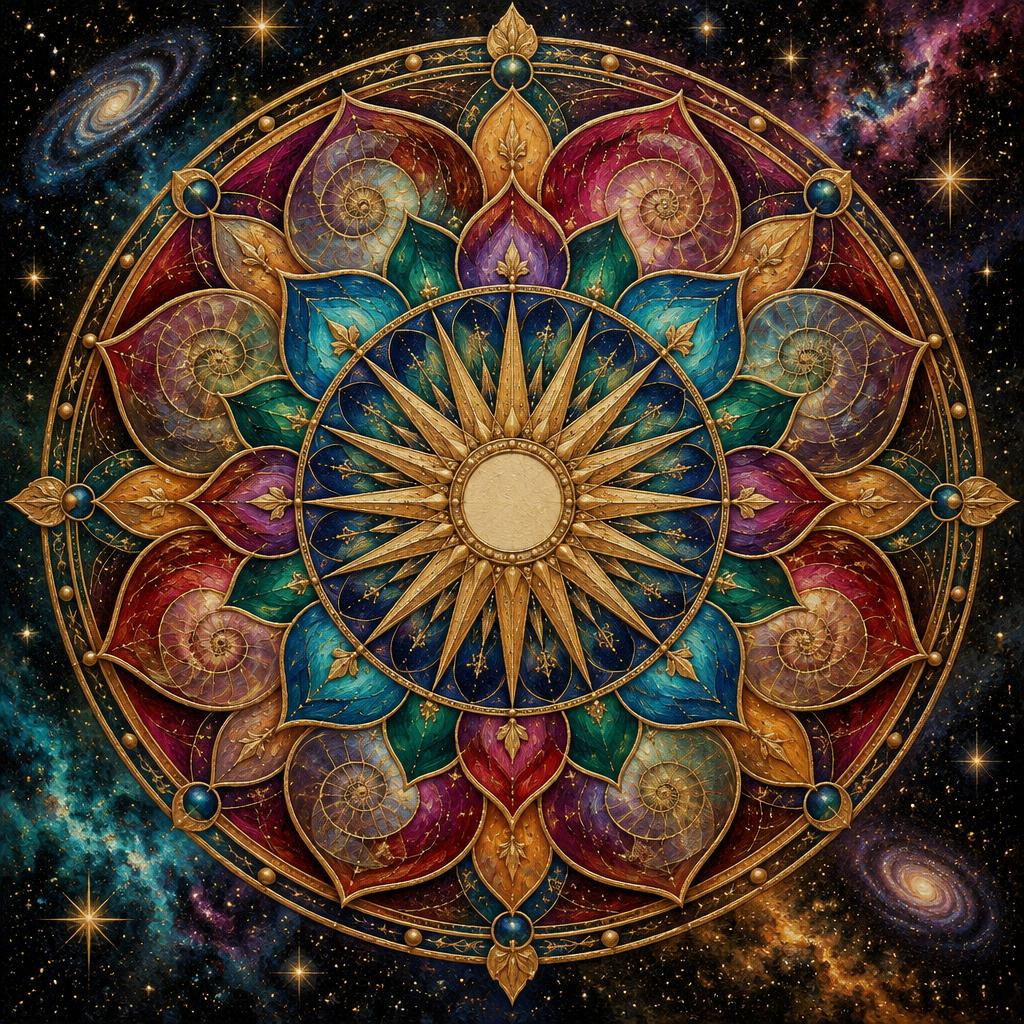
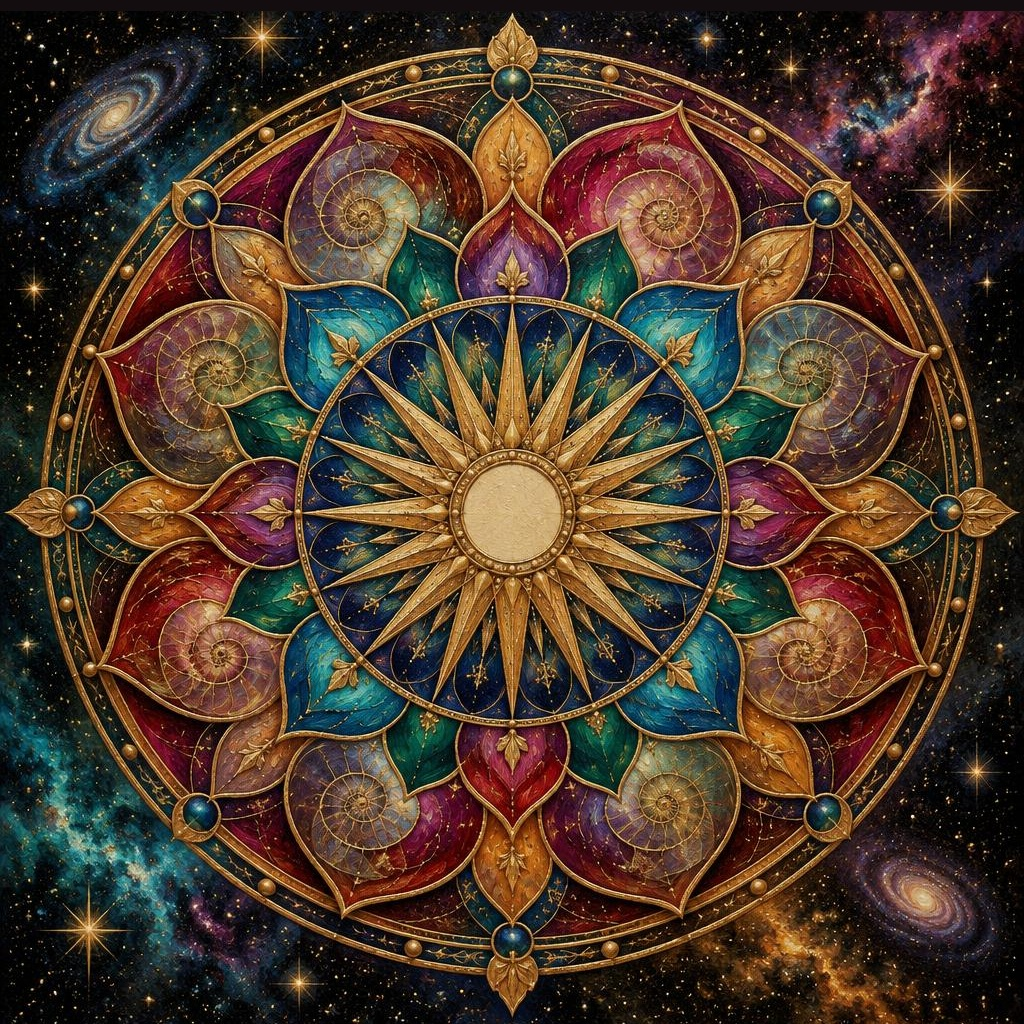
Changes

diff --git a/src/components/MandalaCanvas.tsx b/src/components/MandalaCanvas.tsx
@@ -198,7 +198,7 @@ export function buildMandalaColorPlate(codes: string[], variation: number, _anim
   }).join("");
   const brushSpiral = Array.from({ length: 190 }, (_, i) => { const t = i / 189; const a = t * Math.PI * 7.4 + workSeed % 17 * .07; const r = 31 + t * 417 + Math.sin(i * .71 + workSeed) * .8; return `${i ? "L" : "M"}${(Math.cos(a) * r).toFixed(1)} ${(Math.sin(a) * r).toFixed(1)}`; }).join("");
   const style = `<style>.pigment-layer{mix-blend-mode:overlay}.oil-overlay{mix-blend-mode:soft-light}.oil-soft-light{mix-blend-mode:color-burn}.motif-shadow{mix-blend-mode:multiply}</style>`;
-  return `<svg xmlns="http://www.w3.org/2000/svg" viewBox="-512 -512 1024 1024" width="1024" height="1024">${style}<defs>${auraDef}${textureDefs}<clipPath id="gemOctagon"><path d="M${gemOutline.replaceAll(" ", " L")}Z"/></clipPath><linearGradient id="agedGold" x1="0" y1="0" x2="1" y2="1"><stop offset="0" stop-color="#6F4B18"/><stop offset=".48" stop-color="#B88935"/><stop offset="1" stop-color="#7A5420"/></linearGradient><linearGradient id="midGold" x1="0" y1="1" x2="1" y2="0"><stop offset="0" stop-color="#98702B"/><stop offset=".52" stop-color="#D5AF57"/><stop offset="1" stop-color="#A67B30"/></linearGradient><linearGradient id="leafGold" x1=".15" y1=".85" x2=".85" y2=".15"><stop offset="0" stop-color="#A97927"/><stop offset=".43" stop-color="#F0D98A"/><stop offset=".58" stop-color="#FFF0B0"/><stop offset="1" stop-color="#B48632"/></linearGradient><linearGradient id="shellGold" x1="0" y1="0" x2="1" y2="1"><stop offset="0" stop-color="#FFF3B0"/><stop offset=".48" stop-color="#D7A83D"/><stop offset="1" stop-color="${core}"/></linearGradient><linearGradient id="corePaint" x1="0" y1="0" x2="1" y2="1"><stop offset="0" stop-color="#FFFFFF"/><stop offset=".13" stop-color="${core}"/><stop offset=".43" stop-color="#6E5A28"/><stop offset=".68" stop-color="${core}"/><stop offset=".86" stop-color="#FFF4C7"/><stop offset="1" stop-color="#8B742E"/></linearGradient><linearGradient id="coreRay" x1="0" y1="0" x2="1" y2="0"><stop offset="0" stop-color="${core}" stop-opacity=".95"/><stop offset="1" stop-color="${core}" stop-opacity="0"/></linearGradient><radialGradient id="goldRay" gradientUnits="userSpaceOnUse" cx="0" cy="0" r="450"><stop offset="0" stop-color="#FFF5CE"/><stop offset=".18" stop-color="#F6D875" stop-opacity=".95"/><stop offset=".52" stop-color="#E8BC58" stop-opacity=".62"/><stop offset="1" stop-color="#C28B2E" stop-opacity="0"/></radialGradient><radialGradient id="platinumRay" gradientUnits="userSpaceOnUse" cx="0" cy="0" r="445"><stop offset="0" stop-color="#FFF9D8"/><stop offset=".38" stop-color="#FFF0AA" stop-opacity=".78"/><stop offset="1" stop-color="#EBC56C" stop-opacity="0"/></radialGradient><radialGradient id="gemLight" cx="34%" cy="30%" r="75%"><stop offset="0" stop-color="${gemGlint}"/><stop offset=".45" stop-color="${gemBright}"/><stop offset="1" stop-color="${core}"/></radialGradient><linearGradient id="gemSpectral" x1="0" y1="0" x2="1" y2="1"><stop offset="0" stop-color="${gemBright}"/><stop offset=".55" stop-color="${core}"/><stop offset="1" stop-color="${gemShade}"/></linearGradient><filter id="roughGold" x="-12%" y="-12%" width="124%" height="124%"><feTurbulence type="fractalNoise" baseFrequency=".015 .28" numOctaves="2" seed="${workSeed % 997}" result="noise"/><feDisplacementMap in="SourceGraphic" in2="noise" scale="2.2"/></filter><filter id="fineGold" x="-16%" y="-16%" width="132%" height="132%"><feTurbulence type="fractalNoise" baseFrequency=".045 .19" numOctaves="2" seed="${(workSeed + 211) % 997}" result="fleck"/><feDisplacementMap in="SourceGraphic" in2="fleck" scale="1.15"/></filter><filter id="rayTexture" x="-15%" y="-15%" width="130%" height="130%"><feTurbulence type="fractalNoise" baseFrequency=".018" numOctaves="2" seed="${(workSeed + 317) % 997}" result="rayNoise"/><feDisplacementMap in="SourceGraphic" in2="rayNoise" scale="3.4"/></filter><filter id="coreTexture" x="-20%" y="-20%" width="140%" height="140%"><feTurbulence type="turbulence" baseFrequency=".025 .16" numOctaves="3" seed="${(workSeed + 83) % 997}" result="paint"/><feDisplacementMap in="SourceGraphic" in2="paint" scale="2.8"/></filter><filter id="gemOilPaint" x="-18%" y="-18%" width="136%" height="136%"><feTurbulence type="fractalNoise" baseFrequency=".035 .16" numOctaves="4" seed="${(workSeed + 887) % 997}" result="oilGrain"/><feDisplacementMap in="SourceGraphic" in2="oilGrain" scale="1.35"/><feSpecularLighting in="oilGrain" surfaceScale="1.6" specularConstant=".16" specularExponent="26" lighting-color="#FFF9E8" result="oilShine"><feDistantLight azimuth="225" elevation="58"/></feSpecularLighting><feComposite in="oilShine" in2="SourceGraphic" operator="in" result="litPaint"/><feBlend in="SourceGraphic" in2="litPaint" mode="screen"/></filter><filter id="flowPaint" x="-30%" y="-30%" width="160%" height="160%"><feTurbulence type="fractalNoise" baseFrequency=".018 .11" numOctaves="3" seed="${(workSeed + 431) % 997}" result="flowGrain"/><feDisplacementMap in="SourceGraphic" in2="flowGrain" scale="4.8"/></filter><filter id="sparkleBloom" x="-350%" y="-350%" width="800%" height="800%"><feGaussianBlur stdDeviation="3.2" result="bloom"/><feGaussianBlur stdDeviation="7" result="halo"/><feMerge><feMergeNode in="halo"/><feMergeNode in="bloom"/><feMergeNode in="SourceGraphic"/></feMerge></filter><filter id="starBloom" x="-400%" y="-400%" width="900%" height="900%"><feGaussianBlur stdDeviation="2.3" result="glow"/><feMerge><feMergeNode in="glow"/><feMergeNode in="SourceGraphic"/></feMerge></filter><filter id="shellRelief" x="-30%" y="-30%" width="160%" height="160%"><feGaussianBlur stdDeviation=".35"/><feDropShadow dx="0" dy="0" stdDeviation="2" flood-color="#F7D77C" flood-opacity=".35"/></filter><filter id="gemSparkle" x="-250%" y="-250%" width="600%" height="600%"><feGaussianBlur stdDeviation="1.8" result="shine"/><feMerge><feMergeNode in="shine"/><feMergeNode in="SourceGraphic"/></feMerge></filter><filter id="gemstoneRealism" x="-300%" y="-300%" width="700%" height="700%"><feDropShadow dx="-.25" dy="-.5" stdDeviation="1.1" flood-color="${core}" flood-opacity=".72"/><feDropShadow dx="0" dy="0" stdDeviation="1.8" flood-color="#FFF1A8" flood-opacity=".48"/></filter></defs><g>${auraEl}${cosmicStars}${shellSpirals}<g data-color-layers="path-bound">${colorLayerEls}</g><g data-shading-layers="top">${shadowLayerEls}</g><g data-refracted-light="18">${refractedLight}${lightFilaments}</g><g data-gold-layer="top">${goldLayerEls}${filigreeRosettes}<path d="${brushSpiral}" fill="none" stroke="url(#midGold)" stroke-width="1.05" stroke-opacity=".46" stroke-linecap="round" stroke-dasharray="3 7 15 5" filter="url(#roughGold)"/><circle r="447" fill="none" stroke="url(#agedGold)" stroke-opacity=".58" stroke-width="1.2" stroke-dasharray="18 3 5 8" filter="url(#roughGold)"/><circle r="441" fill="none" stroke="url(#leafGold)" stroke-opacity=".4" stroke-width=".65" stroke-dasharray="2 5 11 4"/>${crownJewels}${parts}${goldLeaf}</g>${birthSparkles}<g data-core-gemstone="${core}" data-gem-shape="${cut === "octagon" ? "octagonal-diamond" : cut}" data-gem-sides="${sides}" data-symmetry="${traits.symmetry || "default"}" data-gem-radius-ratio="0.55" data-gem-setting="inset" filter="url(#gemstoneRealism)"><path data-gem-occlusion="opaque" d="M${gemOutline.replaceAll(" ", " L")}Z" fill="${core}"/><g clip-path="url(#gemOctagon)" filter="url(#gemOilPaint)"><path d="M${gemOutline.replaceAll(" ", " L")}Z" fill="${core}"/>${gemCrownFacets}${gemPavilionFacets}<path data-birth-color="${core}" d="M${gemTable.replaceAll(" ", " L")}Z" fill="url(#gemLight)" stroke="${gemGlint}" stroke-opacity=".7" stroke-width=".35"/>${gemPaintStrokes}</g><path d="M${gemPoint(sides - 2, .9)}L${gemPoint(sides - 1, .9)}L${gemPoint(0, .9)}" fill="none" stroke="#FFFFFF" stroke-opacity=".85" stroke-width=".6" stroke-linecap="round"/>${gemstoneSparkles}</g></g></svg>`;
+  return `<svg xmlns="http://www.w3.org/2000/svg" viewBox="-512 -512 1024 1024" width="1024" height="1024">${style}<defs>${auraDef}${textureDefs}<clipPath id="gemOctagon"><path d="M${gemOutline.replaceAll(" ", " L")}Z"/></clipPath><linearGradient id="agedGold" x1="0" y1="0" x2="1" y2="1"><stop offset="0" stop-color="#6F4B18"/><stop offset=".48" stop-color="#B88935"/><stop offset="1" stop-color="#7A5420"/></linearGradient><linearGradient id="midGold" x1="0" y1="1" x2="1" y2="0"><stop offset="0" stop-color="#98702B"/><stop offset=".52" stop-color="#D5AF57"/><stop offset="1" stop-color="#A67B30"/></linearGradient><linearGradient id="leafGold" x1=".15" y1=".85" x2=".85" y2=".15"><stop offset="0" stop-color="#A97927"/><stop offset=".43" stop-color="#F0D98A"/><stop offset=".58" stop-color="#FFF0B0"/><stop offset="1" stop-color="#B48632"/></linearGradient><linearGradient id="shellGold" x1="0" y1="0" x2="1" y2="1"><stop offset="0" stop-color="#FFF3B0"/><stop offset=".48" stop-color="#D7A83D"/><stop offset="1" stop-color="${core}"/></linearGradient><linearGradient id="corePaint" x1="0" y1="0" x2="1" y2="1"><stop offset="0" stop-color="#FFFFFF"/><stop offset=".13" stop-color="${core}"/><stop offset=".43" stop-color="#6E5A28"/><stop offset=".68" stop-color="${core}"/><stop offset=".86" stop-color="#FFF4C7"/><stop offset="1" stop-color="#8B742E"/></linearGradient><linearGradient id="coreRay" x1="0" y1="0" x2="1" y2="0"><stop offset="0" stop-color="${core}" stop-opacity=".95"/><stop offset="1" stop-color="${core}" stop-opacity="0"/></linearGradient><radialGradient id="goldRay" gradientUnits="userSpaceOnUse" cx="0" cy="0" r="450"><stop offset="0" stop-color="#FFF5CE"/><stop offset=".18" stop-color="#F6D875" stop-opacity=".95"/><stop offset=".52" stop-color="#E8BC58" stop-opacity=".62"/><stop offset="1" stop-color="#C28B2E" stop-opacity="0"/></radialGradient><radialGradient id="platinumRay" gradientUnits="userSpaceOnUse" cx="0" cy="0" r="445"><stop offset="0" stop-color="#FFF9D8"/><stop offset=".38" stop-color="#FFF0AA" stop-opacity=".78"/><stop offset="1" stop-color="#EBC56C" stop-opacity="0"/></radialGradient><radialGradient id="gemLight" cx="34%" cy="30%" r="75%"><stop offset="0" stop-color="${gemGlint}"/><stop offset=".45" stop-color="${gemBright}"/><stop offset="1" stop-color="${core}"/></radialGradient><linearGradient id="gemSpectral" x1="0" y1="0" x2="1" y2="1"><stop offset="0" stop-color="${gemBright}"/><stop offset=".55" stop-color="${core}"/><stop offset="1" stop-color="${gemShade}"/></linearGradient><filter id="roughGold" x="-12%" y="-12%" width="124%" height="124%"><feTurbulence type="fractalNoise" baseFrequency=".015 .28" numOctaves="2" seed="${workSeed % 997}" result="noise"/><feDisplacementMap in="SourceGraphic" in2="noise" scale="2.2"/></filter><filter id="fineGold" x="-16%" y="-16%" width="132%" height="132%"><feTurbulence type="fractalNoise" baseFrequency=".045 .19" numOctaves="2" seed="${(workSeed + 211) % 997}" result="fleck"/><feDisplacementMap in="SourceGraphic" in2="fleck" scale="1.15"/></filter><filter id="rayTexture" x="-15%" y="-15%" width="130%" height="130%"><feTurbulence type="fractalNoise" baseFrequency=".018" numOctaves="2" seed="${(workSeed + 317) % 997}" result="rayNoise"/><feDisplacementMap in="SourceGraphic" in2="rayNoise" scale="3.4"/></filter><filter id="coreTexture" x="-20%" y="-20%" width="140%" height="140%"><feTurbulence type="turbulence" baseFrequency=".025 .16" numOctaves="3" seed="${(workSeed + 83) % 997}" result="paint"/><feDisplacementMap in="SourceGraphic" in2="paint" scale="2.8"/></filter><filter id="gemOilPaint" x="-18%" y="-18%" width="136%" height="136%"><feTurbulence type="fractalNoise" baseFrequency=".035 .16" numOctaves="4" seed="${(workSeed + 887) % 997}" result="oilGrain"/><feDisplacementMap in="SourceGraphic" in2="oilGrain" scale="1.35"/><feSpecularLighting in="oilGrain" surfaceScale="1.6" specularConstant=".16" specularExponent="26" lighting-color="#FFF9E8" result="oilShine"><feDistantLight azimuth="225" elevation="58"/></feSpecularLighting><feComposite in="oilShine" in2="SourceGraphic" operator="in" result="litPaint"/><feBlend in="SourceGraphic" in2="litPaint" mode="screen"/></filter><filter id="flowPaint" x="-30%" y="-30%" width="160%" height="160%"><feTurbulence type="fractalNoise" baseFrequency=".018 .11" numOctaves="3" seed="${(workSeed + 431) % 997}" result="flowGrain"/><feDisplacementMap in="SourceGraphic" in2="flowGrain" scale="4.8"/></filter><filter id="sparkleBloom" x="-350%" y="-350%" width="800%" height="800%"><feGaussianBlur stdDeviation="3.2" result="bloom"/><feGaussianBlur stdDeviation="7" result="halo"/><feMerge><feMergeNode in="halo"/><feMergeNode in="bloom"/><feMergeNode in="SourceGraphic"/></feMerge></filter><filter id="starBloom" x="-400%" y="-400%" width="900%" height="900%"><feGaussianBlur stdDeviation="2.3" result="glow"/><feMerge><feMergeNode in="glow"/><feMergeNode in="SourceGraphic"/></feMerge></filter><filter id="shellRelief" x="-30%" y="-30%" width="160%" height="160%"><feGaussianBlur stdDeviation=".35"/><feDropShadow dx="0" dy="0" stdDeviation="2" flood-color="#F7D77C" flood-opacity=".35"/></filter><filter id="gemSparkle" x="-250%" y="-250%" width="600%" height="600%"><feGaussianBlur stdDeviation="1.8" result="shine"/><feMerge><feMergeNode in="shine"/><feMergeNode in="SourceGraphic"/></feMerge></filter><filter id="gemstoneRealism" x="-300%" y="-300%" width="700%" height="700%"><feDropShadow dx="-.25" dy="-.5" stdDeviation="1.1" flood-color="${core}" flood-opacity=".72"/><feDropShadow dx="0" dy="0" stdDeviation="1.8" flood-color="#FFF1A8" flood-opacity=".48"/></filter></defs><g>${auraEl}${cosmicStars}${shellSpirals}<g data-color-layers="path-bound">${colorLayerEls}</g><g data-shading-layers="top">${shadowLayerEls}</g><g data-refracted-light="18">${refractedLight}${lightFilaments}</g><g data-gold-layer="top">${goldLayerEls}${filigreeRosettes}<path d="${brushSpiral}" fill="none" stroke="url(#midGold)" stroke-width="1.05" stroke-opacity=".46" stroke-linecap="round" stroke-dasharray="3 7 15 5" filter="url(#roughGold)"/><circle r="447" fill="none" stroke="url(#agedGold)" stroke-opacity=".58" stroke-width="1.2" stroke-dasharray="18 3 5 8" filter="url(#roughGold)"/><circle r="441" fill="none" stroke="url(#leafGold)" stroke-opacity=".4" stroke-width=".65" stroke-dasharray="2 5 11 4"/>${crownJewels}${parts}${goldLeaf}</g>${birthSparkles}<g data-core-gemstone="${core}" data-gem-center="0,0" data-gem-shape="${cut === "octagon" ? "octagonal-diamond" : cut}" data-gem-sides="${sides}" data-symmetry="${traits.symmetry || "default"}" data-gem-radius-ratio="0.55" data-gem-setting="inset" filter="url(#gemstoneRealism)"><path data-gem-occlusion="opaque" d="M${gemOutline.replaceAll(" ", " L")}Z" fill="${core}"/><g clip-path="url(#gemOctagon)" filter="url(#gemOilPaint)"><path d="M${gemOutline.replaceAll(" ", " L")}Z" fill="${core}"/>${gemCrownFacets}${gemPavilionFacets}<path data-birth-color="${core}" d="M${gemTable.replaceAll(" ", " L")}Z" fill="url(#gemLight)" stroke="${gemGlint}" stroke-opacity=".7" stroke-width=".35"/>${gemPaintStrokes}</g><path d="M${gemPoint(sides - 2, .9)}L${gemPoint(sides - 1, .9)}L${gemPoint(0, .9)}" fill="none" stroke="#FFFFFF" stroke-opacity=".85" stroke-width=".6" stroke-linecap="round"/>${gemstoneSparkles}</g></g></svg>`;
 }
 
 function loadImage(src: string): Promise<HTMLImageElement> {

diff --git a/roadmap.md b/roadmap.md
@@ -250,3 +250,4 @@
 
 ## Divination-linked mandala
 - [x] Drive mandala symmetry from life path, background aura and gold tint from dominant Four Pillars element, and center gem cut from essence type; keep seven colors, offline drawing and 2048px export.
+- [x] Re-center the oil base so its painted compass meets the exact canvas center under the gem, in live view and 2048px export.
